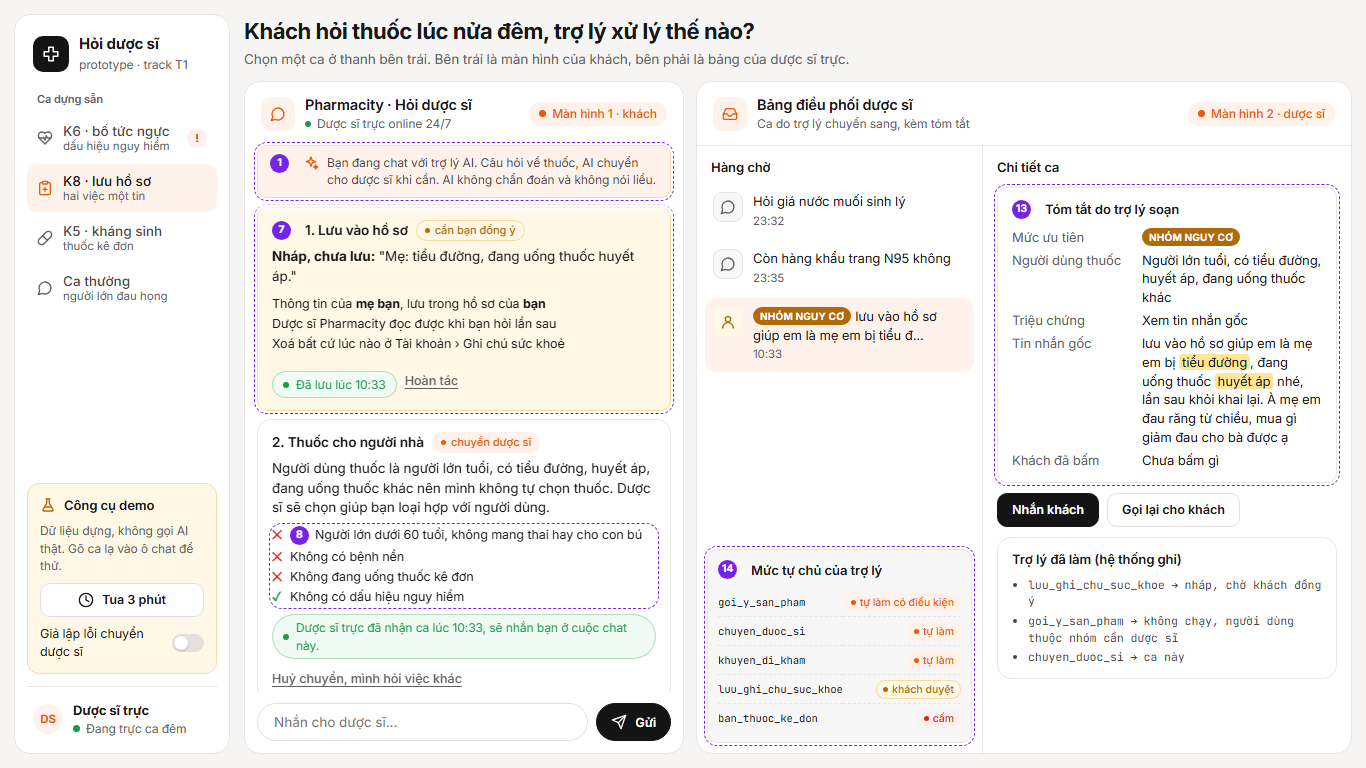
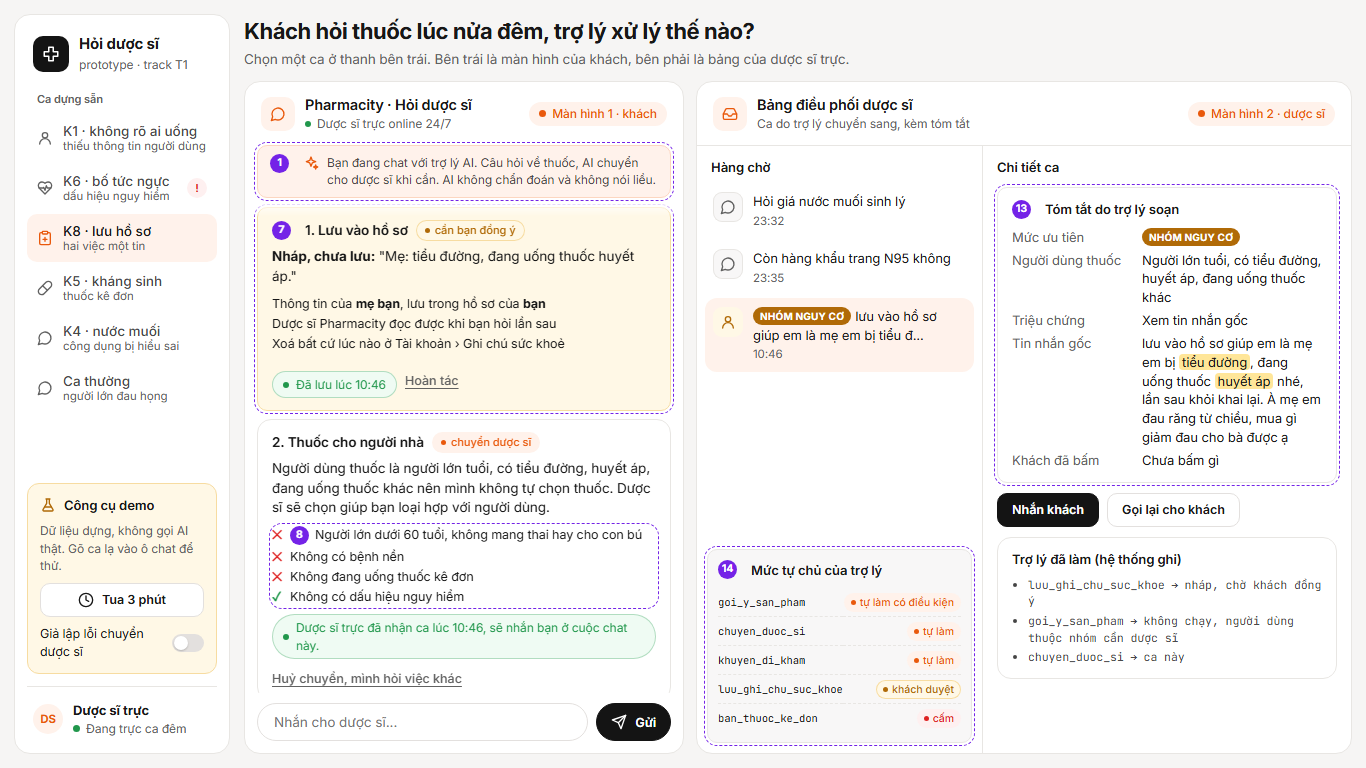
Khớp prototype với §3, §4: thêm ca K1 và K4, hiện điều kiện trượt khi sàng lọc, ảnh K1

Changed region(s): [[0.0307, 0.1562, 0.1537, 0.5312], [0.4305, 0.8125, 0.4612, 0.8438], [0.3382, 0.8125, 0.369, 0.8438]]

diff --git a/prototype/index.html b/prototype/index.html
@@ -131,7 +131,6 @@
   .card.blocked { background: hsl(var(--muted)); border-style: dashed; }
   .card.consent { border-color: hsl(var(--warning-line)); background: hsl(var(--warning-soft)); }
   .card.product { border-color: hsl(var(--accent-line)); }
-  .card.product .checklist { grid-template-columns: 1fr 1fr; column-gap: 10px; margin-bottom: 4px; }
   .why { font-size: 12.5px; margin: 8px 0 0; color: hsl(var(--foreground) / .85); }
   .status {
     display: inline-flex; align-items: center; gap: 7px; font-size: 12px; padding: 4px 10px; margin-top: 8px;
@@ -256,9 +255,11 @@
   </div>
   <div class="nav-label">Ca dựng sẵn</div>
   <nav>
+    <button class="demo-btn" data-case="K1"><svg class="i"><use href="#i-user"/></svg><span>K1 · không rõ ai uống<small>thiếu thông tin người dùng</small></span></button>
     <button class="demo-btn" data-case="K6"><svg class="i"><use href="#i-heart"/></svg><span>K6 · bố tức ngực<small>dấu hiệu nguy hiểm</small></span><span class="count">!</span></button>
     <button class="demo-btn" data-case="K8"><svg class="i"><use href="#i-clip"/></svg><span>K8 · lưu hồ sơ<small>hai việc một tin</small></span></button>
     <button class="demo-btn" data-case="K5"><svg class="i"><use href="#i-pill"/></svg><span>K5 · kháng sinh<small>thuốc kê đơn</small></span></button>
+    <button class="demo-btn" data-case="K4"><svg class="i"><use href="#i-chat"/></svg><span>K4 · nước muối<small>công dụng bị hiểu sai</small></span></button>
     <button class="demo-btn" data-case="NORMAL"><svg class="i"><use href="#i-chat"/></svg><span>Ca thường<small>người lớn đau họng</small></span></button>
   </nav>
   <div class="spacer"></div>
@@ -326,6 +327,8 @@ const CASES = {
   K6: "shop ơi bố mình 68t từ tối cứ tức ngực, vã mồ hôi, chắc ăn không tiêu. nhà còn ít men tiêu hoá, mua thêm loại nào uống cho đỡ đầy bụng ạ",
   K8: "lưu vào hồ sơ giúp em là mẹ em bị tiểu đường, đang uống thuốc huyết áp nhé, lần sau khỏi khai lại. À mẹ em đau răng từ chiều, mua gì giảm đau cho bà được ạ",
   K5: "e cần mua amoxicillin 500, hôm trc bác sĩ kê cho mẹ e r mà hết thuốc, đơn thì làm mất r. ship giúp e 2 vỉ nha",
+  K1: "đau họng sốt từ chiều, cho mình 1 hộp thuốc hạ sốt giảm đau loại nào nhạy nhất nhé, giao liền giúp",
+  K4: "pharmacity gần mình còn nước muối sinh lý loại tép của Pháp trị dứt điểm viêm xoang không, tối nay mình qua lấy luôn",
   NORMAL: "Họng mình đau rát 2 ngày nay, có thuốc gì không?"
 };
 
@@ -384,7 +387,7 @@ function sys(text) { return add(esc(text), "msg sys"); }
 
 function reset() {
   chat.innerHTML = "";
-  state = { locked: false, transferred: null, waitingAfterDanger: false, screening: null };
+  state = { locked: false, transferred: null, waitingAfterDanger: false, screening: null, awaitingArea: false };
   queue = [
     { id: "q1", title: "Hỏi giá nước muối sinh lý", time: "23:32", flag: null, summary: null },
     { id: "q2", title: "Còn hàng khẩu trang N95 không", time: "23:35", flag: null, summary: null }
@@ -400,8 +403,10 @@ function handle(text) {
     say("Bác đang có dấu hiệu cần đi cấp cứu nên mình không gợi ý thuốc trong cuộc chat này. Dược sĩ trực sẽ trả lời bạn ở đây.");
     return;
   }
+  if (state.awaitingArea) return areaFlow(text);
   const danger = found(text, DANGER);
   if (danger.length) return dangerFlow(text, danger);
+  if (/nước muối/i.test(text)) return salineFlow(text);
   const rx = found(text, RX);
   const wantsSave = /lưu/i.test(text);
   if (wantsSave) return saveFlow(text);
@@ -549,12 +554,32 @@ function riskFlow(text, risk, heading) {
   };
 }
 
+/* K4: hỏi sản phẩm không phải thuốc, kèm công dụng sai */
+function salineFlow(text) {
+  const claim = /trị dứt|dứt điểm|khỏi hẳn/i.test(text);
+  say((claim ? "Nước muối sinh lý chỉ giúp rửa mũi, làm sạch dịch nhầy, không trị dứt điểm viêm xoang. Viêm xoang kéo dài thì nên đi khám. " : "")
+    + "Bạn đang ở quận hay khu vực nào để mình tra nhà thuốc còn hàng?");
+  state.awaitingArea = true;
+}
+function areaFlow(text) {
+  state.awaitingArea = false;
+  const card = add(`
+    <h4>Nước muối sinh lý 0,9% dạng tép <span class="level lv-auto">AI tự gợi ý</span></h4>
+    <div>Nhà thuốc gần ${esc(shortTitle(text))}: còn hàng (dữ liệu dựng). Sản phẩm vệ sinh mũi, không phải thuốc điều trị.</div>
+    <div class="row">
+      <button class="btn primary" id="holdItem">Giữ hàng, tối qua lấy (bạn tự bấm)</button>
+      <button class="btn" id="hideItem">Không cần gợi ý này</button>
+    </div>`, "card product");
+  card.querySelector("#holdItem").onclick = e => { e.target.disabled = true; sys("Đã giữ hàng tới 22:00 tối nay."); };
+  card.querySelector("#hideItem").onclick = () => { card.remove(); say("Mình đã ẩn gợi ý. Bạn cần gì thêm thì cứ nhắn."); };
+}
+
 /* Ca thường: hỏi câu sàng lọc rồi mới gợi ý */
 function screeningFlow(text) {
   state.screening = {};
   say("Mình hỏi nhanh vài câu để chọn đúng sản phẩm, bấm là được.");
   const qs = [
-    ["who", "Ai sẽ dùng thuốc?", ["Mình", "Trẻ em", "Trên 60 tuổi"]],
+    ["who", "Ai sẽ dùng thuốc?", ["Mình, người lớn", "Trẻ em", "Người trên 60 tuổi"]],
     ["preg", "Có đang mang thai hoặc cho con bú?", ["Không", "Có"]],
     ["chronic", "Có bệnh nền hoặc đang uống thuốc khác?", ["Không", "Có"]],
     ["sign", "Có sốt cao, khó nuốt, khó thở không?", ["Không", "Có"]]
@@ -579,30 +604,49 @@ function finishScreening(text) {
     return;
   }
   if (pass < 4) {
-    const st = add("", "status");
     say("Trường hợp này mình chuyển dược sĩ chọn thuốc cho chắc.");
+    const who = ["người lớn", "trẻ em", "người trên 60 tuổi"][s.who];
+    const reasons = [who].concat(ok.preg ? [] : ["đang mang thai hoặc cho con bú"]).concat(ok.chronic ? [] : ["có bệnh nền hoặc đang uống thuốc khác"]);
+    const li = (good, label) => `<li class="${good ? "ck-ok" : "ck-no"}">${label}</li>`;
+    const card = add(`
+      <h4>Gợi ý thuốc <span class="level lv-auto">chuyển dược sĩ</span></h4>
+      <div>Người dùng thuốc là ${esc(reasons.join(", "))} nên mình không tự chọn thuốc. Dược sĩ sẽ chọn giúp bạn loại hợp với người dùng.</div>
+      <ul class="checklist" data-anno="8">
+        ${li(ok.who, "Người lớn dưới 60 tuổi tự dùng")}
+        ${li(ok.preg, "Không mang thai, không cho con bú")}
+        ${li(ok.chronic, "Không bệnh nền, không thuốc khác")}
+        ${li(ok.sign, "Không sốt cao, khó nuốt, khó thở")}
+      </ul>
+      <div class="status" id="screenStatus">Đang báo dược sĩ trực...</div>
+      <div class="row"><button class="btn link" id="cancelScreen">Huỷ chuyển, mình hỏi việc khác</button></div>`, "card");
     transfer({
-      flag: null, title: "Đau họng, nhóm cần dược sĩ xem", user: ["Người lớn", "Trẻ em", "Trên 60 tuổi"][s.who],
-      symptom: "Đau rát họng 2 ngày", raw: text,
+      flag: "NHÓM NGUY CƠ", title: shortTitle(text), user: cap(reasons.join(", ")),
+      symptom: "Xem tin nhắn gốc", raw: text,
       did: ["goi_y_san_pham → không chạy, thiếu " + (4 - pass) + "/4 điều kiện", "chuyen_duoc_si → ca này"],
       customer: "Đã trả lời câu sàng lọc", evidence: []
-    }, st, false);
+    }, card.querySelector("#screenStatus"), false);
+    card.querySelector("#cancelScreen").onclick = e => {
+      e.target.disabled = true;
+      queue = queue.filter(q => q.id !== state.transferred);
+      renderQueue(); renderDetail();
+      card.querySelector("#screenStatus").className = "status";
+      card.querySelector("#screenStatus").textContent = "Đã huỷ chuyển. Bạn có thể hỏi lại bất cứ lúc nào.";
+    };
     return;
   }
   const card = add(`
     <h4>Gợi ý cho bạn <span class="level lv-auto">AI tự gợi ý</span></h4>
     <div><b>Viên ngậm thảo dược dịu họng</b> (sản phẩm minh hoạ) · 45.000đ</div>
-    <div class="why" data-anno="10">Đủ 5/5 điều kiện sàng lọc:
+    <div class="why" data-anno="10">Đủ 4/4 điều kiện sàng lọc:
       <ul class="checklist">
-        <li class="ck-ok">Người lớn tự dùng</li><li class="ck-ok">Không mang thai, cho bú</li>
-        <li class="ck-ok">Không bệnh nền</li><li class="ck-ok">Không dùng thuốc khác</li>
-        <li class="ck-ok">Không dấu hiệu nguy hiểm</li>
+        <li class="ck-ok">Người lớn tự dùng</li><li class="ck-ok">Không mang thai, không cho con bú</li>
+        <li class="ck-ok">Không bệnh nền, không thuốc khác</li><li class="ck-ok">Không sốt cao, khó nuốt, khó thở</li>
       </ul>
       Cách dùng: xem trên nhãn hoặc hỏi dược sĩ. Đau quá 5 ngày hoặc sốt thì nên đi khám.
     </div>
     <div class="row" data-anno="11">
       <button class="btn primary" id="order">Đặt (bạn tự bấm)</button>
-      <button class="btn" id="hide">Ẩn gợi ý</button>
+      <button class="btn" id="hide">Không cần gợi ý này</button>
       <button class="btn" id="askPharm">Hỏi dược sĩ thay</button>
     </div>`, "card product");
   card.querySelector("#order").onclick = e => { e.target.disabled = true; sys("Đã thêm vào giỏ. Bạn xác nhận đơn ở bước thanh toán."); };
@@ -610,7 +654,7 @@ function finishScreening(text) {
   card.querySelector("#askPharm").onclick = e => {
     e.target.disabled = true;
     const st = add("", "status");
-    transfer({ flag: null, title: "Đau họng, khách muốn hỏi dược sĩ", user: "Người lớn", symptom: "Đau rát họng 2 ngày", raw: text,
+    transfer({ flag: null, title: shortTitle(text), user: "Người lớn tự dùng", symptom: "Xem tin nhắn gốc", raw: text,
       did: ["goi_y_san_pham → đã gợi ý viên ngậm", "chuyen_duoc_si → khách tự bấm"], customer: "Bấm Hỏi dược sĩ thay", evidence: [] }, st, false);
   };
 }

diff --git a/spec.md b/spec.md
@@ -268,11 +268,11 @@ Nếu `luu_ghi_chu_suc_khoe` được tự làm, lời hứa sẽ là "Pharmacit
 - File: [prototype/index.html](prototype/index.html), mở bằng trình duyệt. Cách dùng và bảng chú thích từng số nằm ở [prototype/README.md](prototype/README.md).
 - Công cụ: HTML, CSS, JavaScript thuần, màu và thành phần theo design token của shadcn/ui.
 - Mock toàn bộ. Trợ lý nhận ra dấu hiệu nguy hiểm, thuốc kê đơn và nhóm nguy cơ bằng danh sách từ khoá. Không có lời gọi AI thật. Bản thật cần model đọc tin nhắn, cộng một danh sách dấu hiệu nguy hiểm do dược sĩ duyệt chạy độc lập với model.
-- Một trang hai màn hình: khung chat bên phía khách, và bảng điều phối cho dược sĩ trực (bonus riêng của T1). Ca khó bấm qua được từ đầu tới cuối là K6, đúng ca demo bắt buộc "người dùng có dấu hiệu nguy hiểm". Gõ ca lạ vào ô chat thì prototype cũng đi theo đúng các mức ở §4, ví dụ "con mình 2 tuổi sốt 39 độ co giật" ra thẻ cấp cứu, "bé nhà mình 3 tuổi ho" thì chuyển dược sĩ.
+- Một trang hai màn hình: khung chat bên phía khách, và bảng điều phối cho dược sĩ trực (bonus riêng của T1). Hai kịch bản đắt nhất đều bấm qua được từ đầu tới cuối: K6 là ca demo bắt buộc "người dùng có dấu hiệu nguy hiểm", K1 chọn "Trẻ em" ở câu sàng lọc là ca "người dùng thuốc là trẻ nhỏ". Thanh bên có thêm K8, K5, K4 và một ca thường. Gõ ca lạ vào ô chat thì prototype cũng đi theo đúng các mức ở §4, ví dụ "con mình 2 tuổi sốt 39 độ co giật" ra thẻ cấp cứu, "bé nhà mình 3 tuổi ho" thì chuyển dược sĩ.
 
 ### Ảnh đánh số
 
-Ảnh 1 (K6): [prototype/screen-1.png](prototype/screen-1.png). Ảnh 2 (K8): [prototype/screen-2.png](prototype/screen-2.png). Ảnh 3 (ca thường): [prototype/screen-3.png](prototype/screen-3.png).
+Ảnh 1 (K6): [prototype/screen-1.png](prototype/screen-1.png). Ảnh 2 (K8): [prototype/screen-2.png](prototype/screen-2.png). Ảnh 3 (K1 chọn "Trẻ em"): [prototype/screen-3.png](prototype/screen-3.png). Ảnh 4 (ca thường): [prototype/screen-4.png](prototype/screen-4.png).
 
 | Số | Thể hiện gì | Nguyên tắc | Mức tự chủ |
 |---|---|---|---|
@@ -281,12 +281,12 @@ Nếu `luu_ghi_chu_suc_khoe` được tự làm, lời hứa sẽ là "Pharmacit
 | 3 | "Vì sao mình khuyên đi khám", tô đúng chữ khách gõ | G11 | |
 | 4 | Trạng thái chuyển ca do hệ thống điền, tool lỗi thì báo "chưa kết nối được dược sĩ, bạn gọi 115 trước" | PAIR Errors | `chuyen_duoc_si` tự làm |
 | 5 | "Mình đã gọi 115" và "Mình nhắn nhầm", nhắn nhầm vẫn sang dược sĩ | PAIR Errors + Graceful Failure, G9 | đường chuyển người |
-| 6 | (tab K5) thẻ xám "Bán thuốc kê đơn · AI không làm", không có nút mua | G1 | `ban_thuoc_ke_don` cấm |
+| 6 | (ca K5, không có trong ảnh) thẻ xám "Bán thuốc kê đơn · AI không làm", không có nút mua | G1 | `ban_thuoc_ke_don` cấm |
 | 7 | Nháp ghi chú sức khoẻ: lưu gì, cho ai, xoá ở đâu; "Đồng ý lưu", lưu xong có "Hoàn tác" | G9 | `luu_ghi_chu_suc_khoe` cần khách duyệt |
-| 8 | Danh sách điều kiện để AI được tự gợi ý, ca này trượt nên chuyển dược sĩ, có nút huỷ chuyển | G2, G11 | `chuyen_duoc_si` tự làm có hoàn tác |
-| 9 | Bốn câu sàng lọc bấm chọn, hỏi trước khi gợi ý | G10 | |
-| 10 | "Đủ 5/5 điều kiện sàng lọc", cách dùng chỉ về nhãn | G2 | |
-| 11 | Khách tự bấm Đặt, có "Ẩn gợi ý", "Hỏi dược sĩ thay" | G8 | `goi_y_san_pham` tự làm có điều kiện |
+| 8 | Danh sách điều kiện để AI được tự gợi ý, điều kiện nào trượt thì đánh dấu ✕, chuyển dược sĩ, có nút huỷ chuyển (ảnh 2 và 3) | G2, G11 | `chuyen_duoc_si` tự làm có hoàn tác |
+| 9 | Bốn câu sàng lọc bấm chọn, hỏi trước khi gợi ý (ảnh 3) | G10 | |
+| 10 | "Đủ 4/4 điều kiện sàng lọc", cách dùng chỉ về nhãn (ảnh 4) | G2 | |
+| 11 | Khách tự bấm Đặt, có "Không cần gợi ý này", "Hỏi dược sĩ thay" (ảnh 4) | G8 | `goi_y_san_pham` tự làm có điều kiện |
 | 12 | Ca NGUY HIỂM nằm đầu hàng chờ của dược sĩ | | |
 | 13 | Tóm tắt cho dược sĩ: người dùng thuốc, triệu chứng, tin nhắn gốc có tô chữ, khách đã bấm gì | PAIR Explainability | |
 | 14 | Bảng mức tự chủ của 5 tool, ở chân cột hàng chờ của dược sĩ | G1 | cả 5 mức |
